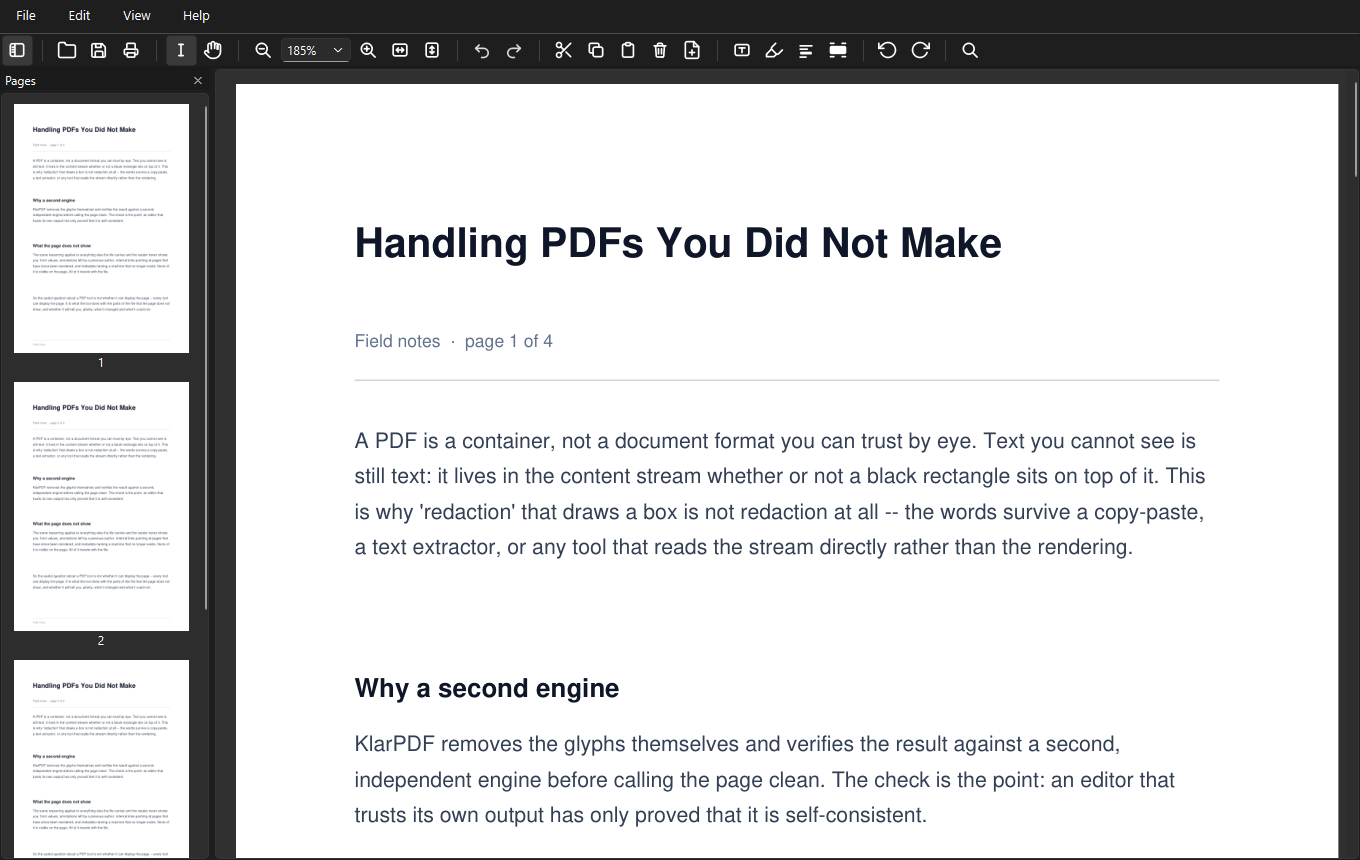
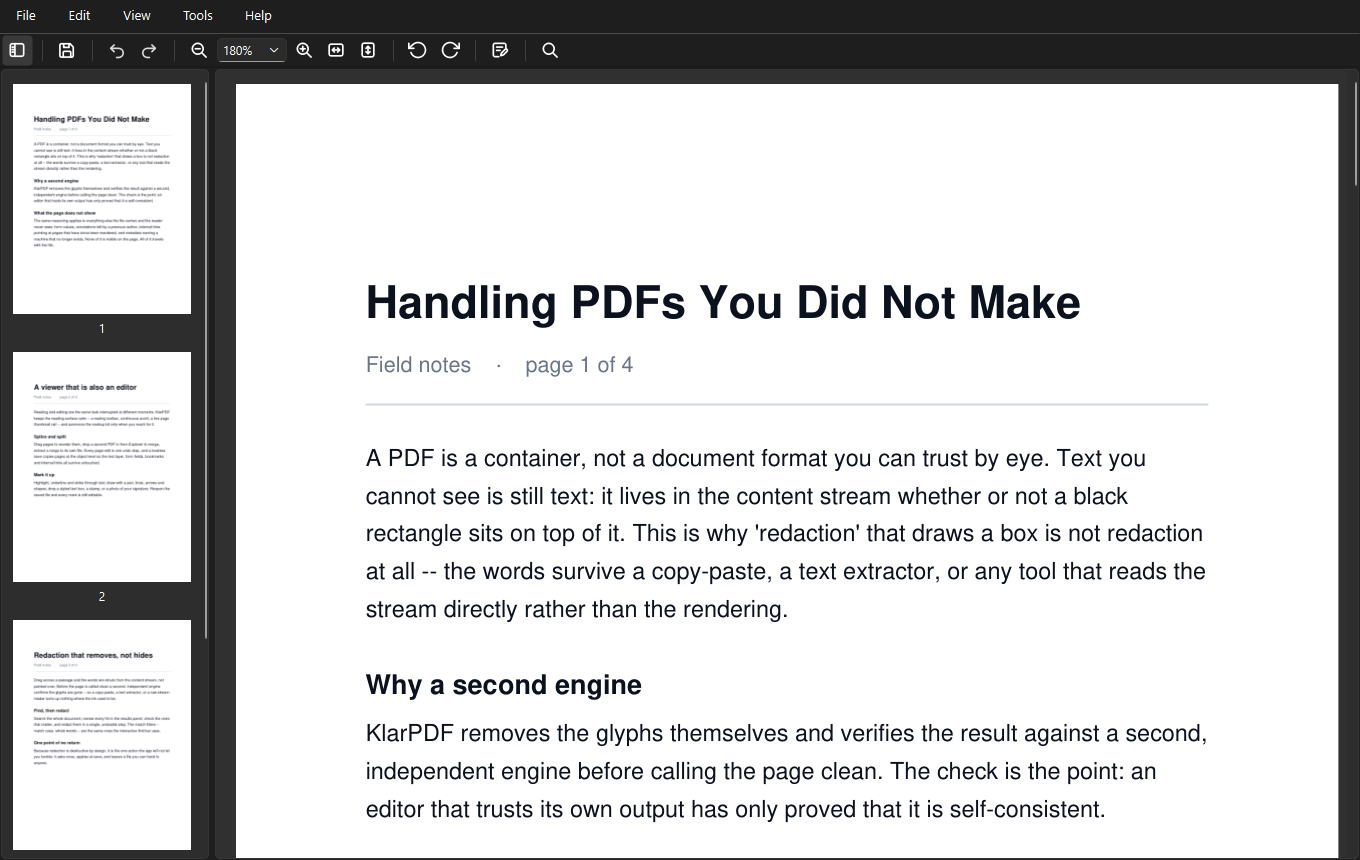
Release v0.16.0 "Simplify & Read" (R6, M71–M79)
Bump version to 0.16.0 and land the R6 release docs.

- README: rewrite the Features list to be scannable and complete — folds in
  the two-tier toolbar, view modes, sticky HUS/Pen arming, both-ended/dashed
  lines, find-bar Match case/Whole words, the Annotations sidebar, arrow-key
  nudge and text-box reflow — and refresh the Status + "New in" paragraph.
- Screenshots: regenerate light + dark (1360x860) to show the R6 resting
  toolbar instead of the old single-tier bar.
- Status paragraphs updated in PROGRESS.md and CLAUDE.md; README test count
  refreshed. 1273 headless tests green (1 expected skip).

diff --git a/version.py b/version.py
@@ -7,4 +7,4 @@ followed by a new tag — versions never change automatically.
 
 from __future__ import annotations
 
-__version__ = "0.15.0"
+__version__ = "0.16.0"

diff --git a/README.md b/README.md
@@ -29,114 +29,70 @@ the unit of audit; it ships as a pinned, fully offline Windows installer.
 <p align="center"><sub>The real app, captured from a real build — and it follows the Windows theme, so
 this screenshot follows your GitHub one.</sub></p>
 
-**Status: `v0.15.0` shipped** — [download the installer or portable exe](https://github.com/utyagi24/klarpdf/releases/latest).
-**New in v0.15.0 "Stamp, Sign & Watermark":** **stamps & watermarks** (text or image, any angle,
-baked into the saved page) and **image signatures** (drop a photo of a signature — white background
-keys out automatically — with a recent-signatures list for reuse); **Find and Redact** — search,
-review the hits, redact the ones you check, one undo step; editing **foreign annotations** from
-other PDF tools (delete, move, or adopt one into an ordinary editable KlarPDF mark); and **form-field
-creation** — add text, checkbox, or dropdown fields directly on the page. Full release notes live on
+**Status: `v0.16.0` shipped** — [download the installer or portable exe](https://github.com/utyagi24/klarpdf/releases/latest).
+**New in v0.16.0 "Simplify & Read":** a **two-tier toolbar** — a calm reading bar at rest, the full
+markup kit summoned on demand — plus **Full Screen · Slideshow · Two-Page** view modes, an
+**Annotations sidebar** listing every text mark, **sticky** Highlight/Underline/Strike arming (mark
+passage after passage), **Match case** + **Whole words** on the find bar, **both-ended and dashed**
+lines, right-click **recolour / add / remove** on any mark, and object **arrow-key nudge** +
+**text-box reflow**. Full release notes live on
 [GitHub Releases](https://github.com/utyagi24/klarpdf/releases); live status — milestones
-(**M0–M38 + R1–R5 complete**), per-release notes, open follow-ups — in [PROGRESS.md](PROGRESS.md).
+(**M0–M38 + R1–R6 complete**), per-release notes, open follow-ups — in [PROGRESS.md](PROGRESS.md).
 
 ## Features
 
-The macOS-Preview workflow, rebuilt for Windows: a fast viewer that is also a page editor.
-Everything below works **fully offline** — the app makes no network connections, ever.
+The macOS-Preview workflow, rebuilt for Windows — a fast viewer that is also a page editor.
+Everything here works **fully offline**: the app makes no network connection, ever.
 
-**View**
-- Continuous-scroll viewer with zoom, a live zoom readout, and **Fit Width / Fit Page** that stay
-  sticky as you resize.
-- **Select & copy text** — exactly the document's (OCR) text layer — and **search** with
-  highlighted hits, next/previous navigation, and **List All**: every match with its context
-  line, click to jump.
-- **Pages sidebar** with live thumbnails that reflect your current edits; thumbnails load lazily,
-  so a 320-page document opens in ~150 ms.
-- **Outline sidebar** — a document with bookmarks gets a Pages | Outline switcher: the live
-  bookmark tree tracks your scroll position, follows your edits, and jumps on click. Plus
-  **Go to Page…** (Ctrl+G).
-- **Night reading mode** — inverts the page for dark-room reading; printing, export, and the
-  file itself stay true-colour.
-- **Right-click menus everywhere** — the verbs fit what's under the cursor: text selection
-  (copy / highlight / redact), links (jump, or copy an external link's address), annotations,
-  the page, and the sidebar.
-- **Clickable internal links** — click to jump to the target page.
-- Opens **password-protected PDFs** (prompted on open; the saved copy is unencrypted).
-- **Grab / Select** viewer-mode toggle; a window opens on the monitor under your cursor, at
-  Fit Page, without flicker.
-- Follows the **Windows light/dark theme** live — the toolbar icons re-tint the moment you switch.
-- **Remembers where you were**: last page, zoom, scroll, and window geometry per document — plus
-  **Open Recent**.
+**Read & navigate**
+- **Two-tier toolbar** — a calm reading bar at rest; the markup kit appears only when you summon it.
+- **Continuous scroll** with zoom, a live readout, and sticky **Fit Width / Fit Page**.
+- **View modes** — **Full Screen** (F11), **Slideshow**, and a **Two-Page** facing layout.
+- **Select & copy** the real text layer; **Night mode** inverts the page (file, print and export stay true-colour).
+- **Search** with highlighted hits, next/previous, **Match case** + **Whole words**, and **List All** — every match with its context line, click to jump.
+- **Pages sidebar** with live thumbnails — a 320-page file opens in ~150 ms.
+- **Outline** and **Annotations** tabs appear only when the document has them — a live bookmark tree and a list of every mark, both click-to-jump. Plus **Go to Page** (Ctrl+G).
+- **Clickable links** — jump internal links; copy an external link's address. **Right-click menus** everywhere fit whatever is under the cursor.
+- **Remembers where you were** — page, zoom, scroll and window — plus **Open Recent**; opens **password-protected** PDFs and follows the **Windows light/dark theme** live.
 
 **Organize pages** — the splice/split workflow
-- **Drag-and-drop reorder**, delete, and rotate pages in the Pages sidebar.
-- **Crop pages** — drag the area to keep, applied to this page / selected / all. Cropping
-  *hides* (use Redact to remove permanently); **Remove Crop** restores the full page any time,
-  even for a crop the file arrived with.
-- **Merge / splice**: drag a PDF in from File Explorer to insert its pages at any position.
-- **Cut / copy / paste pages** — including **between two open documents**.
-- **Extract pages** to a new file, **insert blank pages**, and **duplicate** a page.
-- **Undo / redo** (Ctrl+Z / Ctrl+Y) for every page edit.
-- **Lossless saves**: pages are copied at the object level, so the text (OCR) layer and form fields
-  survive untouched, and **bookmarks and internal links are rebuilt** to keep working after
-  reorder / delete.
-- Save / Save As, with a **Save / Discard / Cancel** prompt on close.
+- **Reorder, delete, rotate, duplicate**, and **insert blank** pages.
+- **Merge** — drag a PDF in from Explorer to splice its pages in at any position.
+- **Crop** to hide (this / selected / all), with **Remove Crop** to restore — even a crop the file arrived with.
+- **Extract** pages to a new file; **cut / copy / paste** pages, even **between two open documents**.
+- **Lossless saves** — text layer, form fields, bookmarks and internal links all survive a reorder or delete.
+- **Undo / redo** every page edit (Ctrl+Z / Ctrl+Y).
 
-**Annotate, mark up, redact & fill**
-- **Highlight, underline and strike out** text, each with its own curated colour palette.
-  Re-marking text you already marked *folds into* the existing mark — same colour extends it, a
-  different colour recolours what it covers — instead of quietly stacking a second layer.
-- **Draw**: a freehand **pen**, plus **lines, arrows, rectangles and ellipses**, with a shared
-  colour · width · **opacity** · fill picker (translucency is how you mark over text without
-  hiding it).
-- Add **styled text boxes** — font family, size, colour, box fill and outline.
-- **Edit what you drew**: click or marquee-select one object or many, then move, **resize**
-  (corner/edge handles, Shift to keep proportions), re-order (**Bring to Front / Send to Back**),
-  copy/cut/paste — a group keeps its arrangement — or delete. Every action is one undo step, and
-  all of it still works **after reopening the saved file**.
-- **Stamps, signatures & watermarks**: place a text or image stamp anywhere, or apply a watermark
-  across a page range — any angle, any opacity, baked into the saved page. **Sign with a photo**:
-  drop a picture of your signature and a white background is keyed out automatically, with a
-  recent-signatures list for one-click reuse.
-- **True destructive redaction**: drag over text or a region and it is permanently removed at save
-  — a cross-engine-verified, confirmed point of no return. **Find and Redact** searches the whole
-  document, lets you review every hit (case / whole-word filters, click to jump), and redacts the
-  ones you check as one undo step.
-- **Foreign annotations** — a mark left by another PDF tool can be **deleted**, **moved**
-  (appearance preserved exactly), or **adopted** (highlight, underline, strikeout, ink, line, shape,
-  callout) into an ordinary editable KlarPDF mark.
-- **Fill AcroForm forms**; values save losslessly. **Create form fields** — text, checkbox, or
-  dropdown — directly on the page; a created field fills, saves, prints and flattens like any other.
-- **Edits-aware printing** — the printout shows your annotations, form values, and redactions (an
-  unsaved redaction never prints the original).
-- **Export → PDF (flatten)**: bakes annotations + form widgets into the page content,
-  text-preserving.
+**Annotate & mark up**
+- **Highlight, underline, strike out** — armed once, mark passage after passage; re-marking **merges** instead of stacking a second layer.
+- **Draw** — pen, lines, arrows (any end, **dashed or solid**), rectangles, ellipses — with a shared colour · width · **opacity** · fill picker.
+- **Text boxes** — styled font, size, colour, fill and outline; drag the edge to reflow.
+- **Edit what you drew** — select, move (or **nudge** with arrow keys), **resize**, re-order and group copy/paste; each action one undo step, all editable after reopening.
+- **Stamps, signatures & watermarks** — text or image, any angle, baked at save; **sign with a photo** and its white background keys out automatically.
+- **Change a mark in place** — right-click to recolour, or add and remove markup layers.
+- **Fill forms**, and **create fields** — text, checkbox or dropdown — right on the page.
 
-**Images**
-- **Import** a PNG/JPEG from Explorer as a new page.
-- **Export** selected pages as PNG/JPEG at a chosen DPI, edits-aware.
-- **Export → Reduced Size PDF** — re-encodes for a smaller file when you need to send it.
+**Redact — for real**
+- **Destructive redaction** — drag over text or a region and it is permanently removed at save, cross-engine verified.
+- **Find and Redact** — search the whole document, review the hits, redact the ones you check in one undo step.
 
-**Document properties & security**
-- **Properties** — inspect and edit the document's metadata (title, author, subject, keywords…),
-  or strip it entirely; both metadata stores are cleared, not just the visible one.
-- **Password-protect** a document with **AES-256** on save — set, change, or remove it.
+**Foreign annotations** — marks left by another PDF tool
+- **Delete**, **move** (appearance preserved exactly), or **adopt** one into an ordinary editable KlarPDF mark.
 
-**File safety**
-- **Revert to Saved**; a warning when **another program modifies the open file** (Reload / Keep);
-  and an overwrite guard before Save.
+**Export, print & images**
+- **Print** with your annotations, form values and redactions baked in.
+- **Export → PDF (flatten)** — bakes annotations + form widgets into the page, text-preserving.
+- **Import** a PNG/JPEG as a page; **export** pages as PNG/JPEG at a chosen DPI; **Reduced-Size PDF** for email.
 
-**A native Windows citizen**
-- Registers in the `.pdf` **Open With** list — built to be your default viewer.
-- **Single instance, one window per document**: opening an already-open file focuses its window,
-  never spawns a duplicate.
-- Per-user install (no admin), Start-Menu shortcut, clean uninstall — or a single-file portable
-  exe.
+**Files, security & Windows**
+- **Properties** — edit or strip metadata (both stores cleared, not just the visible one).
+- **Password-protect** with **AES-256** — set, change, or remove.
+- **File safety** — Revert to Saved, a warning when another program changes the open file, an overwrite guard, and a Save / Discard / Cancel prompt on close.
+- **A native Windows citizen** — registers in the `.pdf` **Open With** list; **single instance, one window per document**; per-user install (no admin) or a single-file portable exe.
 
-**Private & auditable by design**
-- **No network access** at install or runtime, no telemetry, no accounts, no upsell.
-- Readable Python source is the unit of audit; every dependency **pinned by hash and vendored**;
-  free software under the AGPL.
+**Private & auditable**
+- **No network, no telemetry, no accounts, no upsell** — ever.
+- Readable Python source is the unit of audit; every dependency **pinned by hash and vendored**; free software under the **AGPL**.
 
 ## Use it (Windows)
 
@@ -182,7 +138,7 @@ ui/ · store/ · util/       # icons + About · view-state/recents · path ident
 platform_integration.py    # ALL OS-specific code, quarantined behind one seam
 packaging/                 # PyInstaller spec, Inno Setup script, build.ps1
 vendor/ · requirements-*   # the pinned + vendored offline dependency ship-set
-tests/                     # 414 headless tests (offscreen Qt), run in CI on every PR
+tests/                     # 1273 headless tests (offscreen Qt), run in CI on every PR
 ```
 
 ## Develop (WSL)
@@ -193,7 +149,7 @@ sudo apt install -y python3.12-venv
 
 python3 -m venv .venv && . .venv/bin/activate
 pip install -r requirements-dev.txt
-invoke test                     # 414 headless tests (offscreen Qt) — or run `pytest`
+invoke test                     # 1273 headless tests (offscreen Qt) — or run `pytest`
 invoke --list                   # all build/release tasks: test · audit · lock · build · tag · publish
 python launcher.py file.pdf     # run the GUI via WSLg
 ```

diff --git a/PROGRESS.md b/PROGRESS.md
@@ -7,7 +7,39 @@ it merges, check the box here in the same PR and append the PR link.
 > release links, milestone ticks, and open follow-ups. `PLAN.md` (design/spec) and `CLAUDE.md`
 > (conventions) **link here, they don't restate it** — see CLAUDE.md §How we work → "Where things live".
 
-**Status:** ✅ **v0.15.0 "Stamp, Sign & Watermark" shipped** — delivers **R4 (M61–M64)** and **R5
+**Status:** ✅ **v0.16.0 "Simplify & Read" shipped** — the GUI tranche's **R6 (M71–M79)**, a
+Preview-inspired simplification built on one idea: *the app at rest is a viewer; the markup kit is
+chrome you summon on demand.* The single ~29-slot toolbar splits into **two tiers** — a resting
+**reading bar** (Sidebar · Save · Undo/Redo · the zoom cluster · Rotate · a **Markup** toggle · Find)
+and a **markup bar** the toggle reveals, its visibility remembered app-wide like the sidebar
+([#159](https://github.com/utyagi24/klarpdf/pull/159)). The kit gains Preview's ergonomics: **one
+gesture-detecting Redact** — press-on-text vs press-on-margin picks the gesture
+([#160](https://github.com/utyagi24/klarpdf/pull/160), [#189](https://github.com/utyagi24/klarpdf/pull/189));
+**sticky arming** so Highlight/Underline/Strike/Pen mark passage after passage
+([#161](https://github.com/utyagi24/klarpdf/pull/161)); **arrowheads as line style** — Arrow folds
+into Line with none/start/end/**both** ends, plus a **dashed** stroke option
+([#162](https://github.com/utyagi24/klarpdf/pull/162), [#169](https://github.com/utyagi24/klarpdf/pull/169));
+and a right-click **markup context menu** to recolour or add/remove layers in place
+([#164](https://github.com/utyagi24/klarpdf/pull/164), [#167](https://github.com/utyagi24/klarpdf/pull/167), [#168](https://github.com/utyagi24/klarpdf/pull/168)).
+Reading gains **Match case** + **Whole words** on the find bar
+([#163](https://github.com/utyagi24/klarpdf/pull/163), [#171](https://github.com/utyagi24/klarpdf/pull/171)),
+an **Annotations sidebar tab** listing every text markup — click to jump, present only when the doc
+has marks ([#165](https://github.com/utyagi24/klarpdf/pull/165), [#174](https://github.com/utyagi24/klarpdf/pull/174)) —
+and three view-only **view modes**: Full Screen, Slideshow, Two-Page
+([#166](https://github.com/utyagi24/klarpdf/pull/166), [#170](https://github.com/utyagi24/klarpdf/pull/170)).
+A late owner-testing pass (**M78.2–M78.6**) added **arrow-key nudge** and **text-box width reflow** to
+object editing, an icon-polish set, **HUS arming swatches**, and split the shared style button into
+Line Styling · Colors · Opacity (an exact-% slider)
+([#180](https://github.com/utyagi24/klarpdf/pull/180)–[#184](https://github.com/utyagi24/klarpdf/pull/184)),
+while **M79.1–.3** stripped the sidebar's title bar and made its optional tabs appear only on demand
+([#175](https://github.com/utyagi24/klarpdf/pull/175), [#177](https://github.com/utyagi24/klarpdf/pull/177), [#178](https://github.com/utyagi24/klarpdf/pull/178)).
+Two search fixes closed the tranche: find-as-you-type no longer hangs a large document
+([#186](https://github.com/utyagi24/klarpdf/pull/186)) and **search matches the page's printed text
+only** ([#190](https://github.com/utyagi24/klarpdf/pull/190)). Release:
+<https://github.com/utyagi24/klarpdf/releases/tag/v0.16.0>. 1273 headless tests green
+(1 expected skip — the Poppler `pdftotext` cross-check, absent on Windows).
+
+**v0.15.0 "Stamp, Sign & Watermark"** — delivers **R4 (M61–M64)** and **R5
 (M66–M69.16)** together: M65's release cut was skipped by owner call (2026-07-20) so R4 would ship
 alongside R5 rather than under an unpublished tag. A **unified content-draw engine**
 (`model/content_marks.py`) underlies stamps, signatures and watermarks — two descriptors, `Stamp`

diff --git a/CLAUDE.md b/CLAUDE.md
@@ -73,15 +73,15 @@ workflow on Windows. Built **Windows-first** with Linux-ready seams.
   spare machine / a fresh local user with networking disabled.
 
 ## Status
-**Current: v0.15.0 "Stamp, Sign & Watermark" shipped (R4, M61–M64 + R5, M66–M69.16)** — M65's
-release cut was skipped by owner call so R4 would ship alongside R5 rather than under an
-unpublished tag. R4 adds a unified content-draw engine (stamps/watermarks baked at save), image
-stamp/signature placement, and Find-and-Redact; R5 adds foreign-annotation handling (delete, move,
-adopt-on-edit) and form-field creation (text/checkbox/dropdown), plus a sixteen-item polish pass
-from owner testing. **M0–M38 and R1–R5 are all complete**; v0.11.0 stays reserved for the
-MCP / Agent Bridge (M39–M44), and a sixth GUI tranche — **R6 "Simplify & Read" (M71–M79)**, the
-Preview-inspired UI simplification approved 2026-07-22 — is planned (spec + decided-against list in
-`PLAN.md` §GUI feature roadmap → R6). For live status —
-shipped versions, per-release notes, release links, milestone ticks, and **Open follow-ups** — see
-`PROGRESS.md` (the single source of status; read it first). Design/spec, including §Future
-enhancements for what's next, lives in `PLAN.md`.
+**Current: v0.16.0 "Simplify & Read" shipped (R6, M71–M79)** — the Preview-inspired UI
+simplification, built on one idea: the app at rest is a viewer, the markup kit is chrome you summon
+on demand. It splits the single toolbar into a resting **reading bar** + a **markup bar** the Markup
+toggle reveals; collapses Redact to one gesture-detecting tool; makes Highlight/Underline/Strike/Pen
+**sticky**; folds arrowheads into line style (both-ended + dashed); adds **Match case / Whole words**
+to the find bar, an **Annotations sidebar tab**, and **Full Screen / Slideshow / Two-Page** view
+modes; and (M78.2–.6) adds arrow-key nudge, text-box reflow, HUS arming swatches and a split style
+button, with the sidebar (M79.1–.3) losing its title bar and showing optional tabs only on demand.
+**M0–M38 and R1–R6 are all complete**; v0.11.0 stays reserved for the MCP / Agent Bridge (M39–M44).
+For live status — shipped versions, per-release notes, release links, milestone ticks, and **Open
+follow-ups** — see `PROGRESS.md` (the single source of status; read it first). Design/spec, including
+§Future enhancements for what's next, lives in `PLAN.md`.
